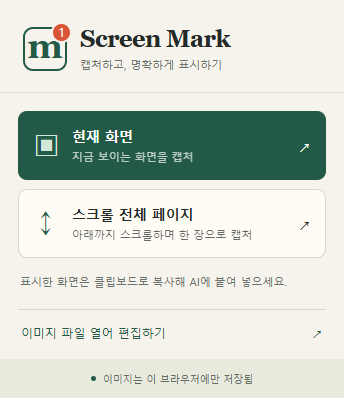
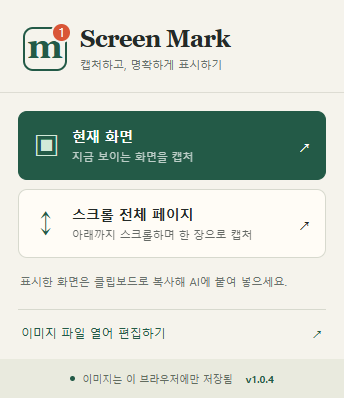
fix: show installed version and avoid duplicate initial drawing

Changed region(s): [[0.2035, 0.9347, 0.814, 0.9648]]

diff --git a/extension/popup.css b/extension/popup.css
@@ -1,1 +1,2 @@
 :root{color-scheme:light;--ink:#242a28;--muted:#69716c;--paper:#f5f3ec;--green:#235a47}*{box-sizing:border-box}body{margin:0;width:344px;background:var(--paper);color:var(--ink);font:14px 'Malgun Gothic','Segoe UI',sans-serif}header{padding:25px 23px 20px;display:flex;gap:13px;align-items:center;border-bottom:1px solid #dddcd3}.logo{position:relative;font:bold 35px Georgia,serif;border:2px solid var(--green);width:44px;height:44px;line-height:35px;text-align:center;color:var(--green);border-radius:10px}.logo span{position:absolute;right:-7px;top:-7px;background:#d95537;color:white;border:2px solid var(--paper);width:21px;height:21px;border-radius:50%;font:12px/17px 'Segoe UI',sans-serif}h1{font:600 24px Georgia,serif;margin:0;letter-spacing:-.7px}p{color:var(--muted);margin:5px 0 0;font-size:11px}main{padding:18px}button{font:inherit;cursor:pointer}button:focus-visible{outline:3px solid #cc8b2e;outline-offset:3px}.capture{display:flex;align-items:center;text-align:left;gap:14px;padding:15px 14px;width:100%;border:1px solid #d7d9ce;border-radius:9px;background:#fffcf6;color:var(--ink);margin-bottom:9px}.capture>span:nth-child(2){flex:1}.symbol{font:27px Georgia,serif;color:var(--green);width:25px;text-align:center}strong{display:block;font-size:14px}small{display:block;margin-top:4px;font-size:11px;opacity:.7}.capture:hover{border-color:var(--green);background:#edf0e7}.primary{background:var(--green);color:#fff;border-color:var(--green)}.primary .symbol{color:#d2e9d9}.primary:hover{background:#184633;color:#fff}button:disabled{cursor:wait;opacity:.55}#status{min-height:32px;font-size:11px;line-height:1.6;padding:6px 2px}#status.error{color:#ae311f}#open-editor{display:flex;justify-content:space-between;width:100%;margin-top:10px;background:none;border:0;border-top:1px solid #d7d9ce;padding:15px 3px 0;color:var(--green);font-size:12px}footer{display:flex;align-items:center;justify-content:center;gap:7px;padding:13px;background:#e9eade;color:#626c5f;font-size:10px}.dot{width:5px;height:5px;background:var(--green);border-radius:50%}
+#version{margin-left:6px;color:var(--green);font-weight:600;white-space:nowrap}

diff --git a/extension/editor.js b/extension/editor.js
@@ -105,7 +105,7 @@ function undoRedo(action) {
   fit(); save();
 }
 
-function setTool(value) {
+function setTool(value, render = true) {
   tool = value; gesture = null; preview = null; selectedId = null;
   document.querySelectorAll('[data-tool]').forEach(button => {
     const active = button.dataset.tool === value;
@@ -113,7 +113,7 @@ function setTool(value) {
   });
   canvas.style.cursor = value === 'select' ? 'default' : 'crosshair';
   const hints = { rectangle: '드래그해 사각형 표시 추가', number: '클릭해 원형 번호 라벨 추가', select: '표시를 클릭해 선택하고 드래그해 이동', arrow: '드래그해 화살표 추가', text: '텍스트를 넣을 위치 클릭', mosaic: '가릴 영역을 드래그. 민감 정보는 저장 전 결과를 확인하세요.', crop: '남길 영역을 드래그. 실행 취소로 복구할 수 있음' };
-  status(hints[value]); draw();
+  status(hints[value]); if (render) draw();
 }
 
 function style() { return { color: $('#color').value, stroke: Number($('#stroke').value) }; }
@@ -236,7 +236,7 @@ async function displayCapture(record) {
   $('#number-start').value = history.current.nextNumber;
   $('#empty').hidden = true; frame.hidden = false;
   document.title = `${record.title} · Screen Mark`;
-  fit(); setTool('rectangle');
+  fit(); setTool('rectangle', false);
   status('이 브라우저에 저장됨');
 }
 

diff --git a/extension/popup.html b/extension/popup.html
@@ -8,6 +8,6 @@
     <p id="status" role="status" aria-live="polite">표시한 화면은 클립보드로 복사해 AI에 붙여 넣으세요.</p>
     <button id="open-editor">이미지 파일 열어 편집하기 <span>↗</span></button>
   </main>
-  <footer><span class="dot"></span>이미지는 이 브라우저에만 저장됨</footer>
+  <footer><span class="dot"></span>이미지는 이 브라우저에만 저장됨 <span id="version" aria-label="설치된 버전"></span></footer>
   <script type="module" src="popup.js"></script>
 </body></html>

diff --git a/extension/popup.js b/extension/popup.js
@@ -1,5 +1,6 @@
 const status = document.querySelector('#status');
 const buttons = [...document.querySelectorAll('button')];
+document.querySelector('#version').textContent = `v${chrome.runtime.getManifest().version}`;
 document.querySelectorAll('[data-mode]').forEach(button => button.addEventListener('click', async () => {
   buttons.forEach(item => { item.disabled = true; });
   status.className = '';

diff --git a/docs/verification.md b/docs/verification.md
@@ -51,6 +51,16 @@
 
 v1.0.2 사용자의 기존 Chrome 프로필에서 직접 업데이트 후 사용한 결과는 아직 확인하지 않음. 위 검증은 별도 시험용 프로필 기준임.
 
+## v1.0.4 버전 표시와 초기 그리기
+
+2026-10-21. 팝업 하단에 `chrome.runtime.getManifest().version`으로 실제 버전을 표시함. 캡처·파일 로딩 시 같은 이미지를 연속 두 번 그리던 초기화 경로에서 한 번만 그리도록 수정함.
+
+- 버전 요소가 없는 기존 코드에서 회귀 검사가 실패함을 확인함. 버전 표시를 추가한 뒤에는 초기 그리기 횟수가 2여서 두 번째 검사가 실패했고, 중복 그리기를 제거한 뒤 통과함.
+- `npm test`: 모델·렌더 작업 15개 통과. `npm run test:browser`: 버전 표시를 포함한 14개 검사 항목 통과, page error 없음. 첫 이미지 그리기가 정확히 한 번인지 직접 검사함.
+- 설치된 Google Chrome 155의 별도 headless 프로필에서 전후 각각 5회 캡처를 실행했고, 초기 그리기는 모든 실행에서 2회에서 1회로 줄었음. 팝업은 실제 도구 모음 클릭 대신 확장 URL을 별도 페이지로 열어 검사했으므로 사용자 Chrome의 메뉴 지연을 재현한 것은 아님.
+- 전체 대기시간은 변동이 커서 개선으로 판단하지 않음. 이 릴리스는 메뉴가 느리게 열리는 문제의 원인까지 확인하거나 해결했다는 의미가 아님.
+- 팝업 스크린샷에서 하단 `v1.0.4` 표시와 줄바꿈·버튼 배치를 확인함. 코드 리뷰에서 중요한 미해결 결함 없음.
+
 ## v1.0.3 연속 사용·다중 탭 검증
 
 2026-10-21. 같은 캡처의 여러 편집 탭이 서로 저장을 덮어쓰는 문제와 오래된 캡처의 최근 편집이 정리되는 문제를 실제 Chrome에서 재현한 뒤 수정함. 저장 실패 후 파일 교체로 미저장 표시가 사라지는 문제도 재현 후 수정함.

diff --git a/README.md b/README.md
@@ -6,7 +6,7 @@ A local Chrome screenshot and annotation extension with numbered labels and clip
 
 ## 설치
 
-1. [최신 릴리스](https://github.com/soloandco/screen-mark/releases/latest)에서 `screen-mark-1.0.3.zip`을 내려받아 압축을 푼다. 소스를 받았다면 저장소 안의 `extension` 폴더를 사용한다.
+1. [최신 릴리스](https://github.com/soloandco/screen-mark/releases/latest)에서 `screen-mark-1.0.4.zip`을 내려받아 압축을 푼다. 소스를 받았다면 저장소 안의 `extension` 폴더를 사용한다.
 2. Chrome 주소창에 `chrome://extensions`를 입력한다.
 3. 오른쪽 위 **개발자 모드**를 켠 뒤 **압축해제된 확장 프로그램을 로드합니다**를 누른다.
 4. 릴리스 ZIP에서는 `screen-mark` 폴더, 소스에서는 `extension` 폴더를 선택한다. `manifest.json`이 들어 있는 폴더가 설치 대상이다.
@@ -24,6 +24,8 @@ A local Chrome screenshot and annotation extension with numbered labels and clip
 ### 1. 캡처 방식 선택
 
 크롬 도구 모음에서 **Screen Mark 아이콘**을 누른다.
+
+메뉴 하단에 실제 설치된 버전이 표시된다. 업데이트한 폴더를 쓰는 경우 `chrome://extensions`에서 Screen Mark의 새로고침을 누르고 메뉴를 다시 열어 버전을 확인한다.
 
 <img src="docs/images/capture-menu.png" alt="현재 화면과 스크롤 전체 페이지를 선택하는 Screen Mark 실제 메뉴" width="344">
 
